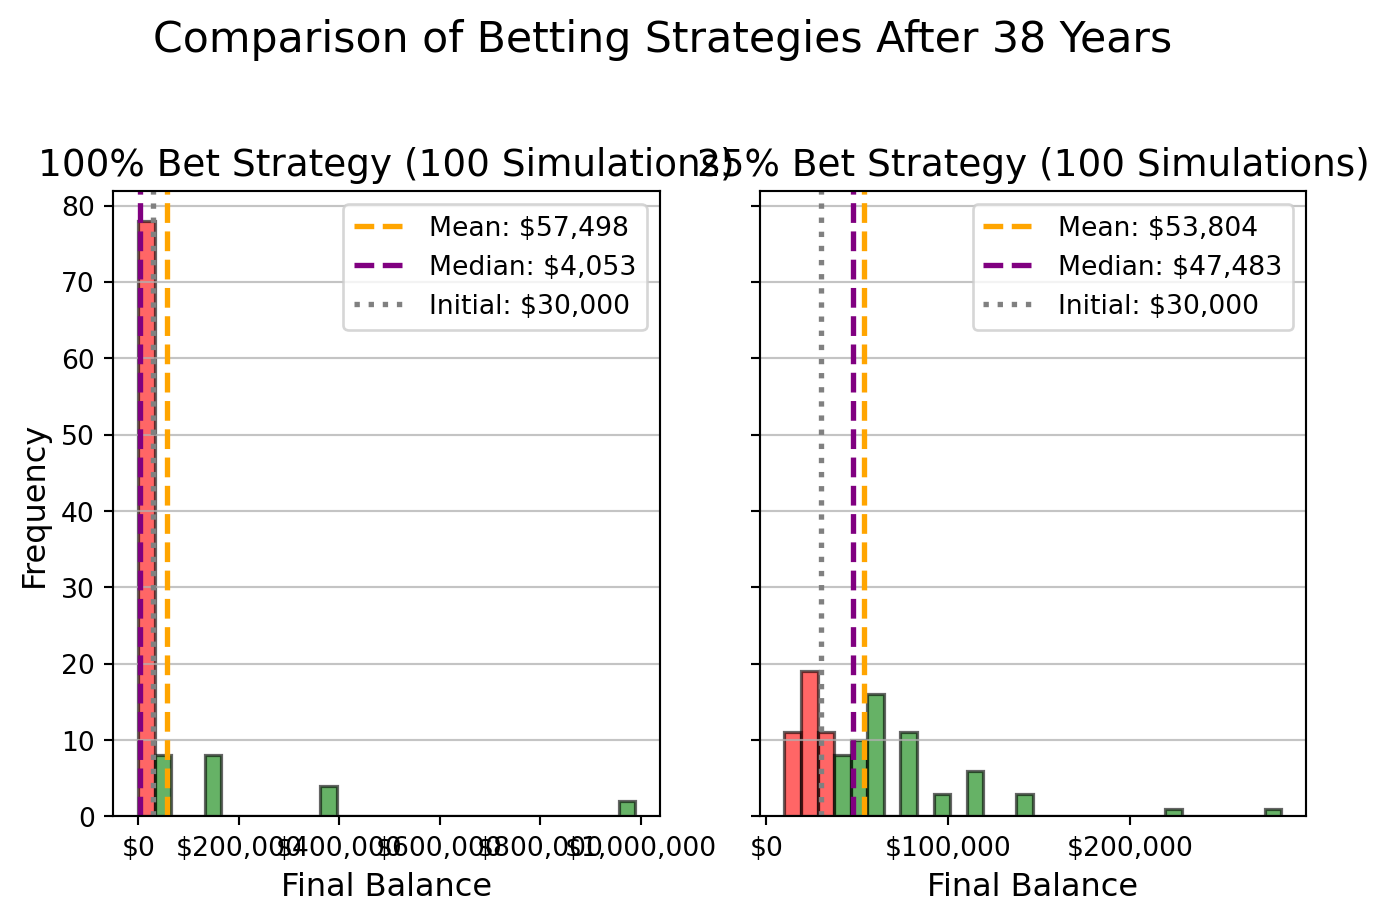
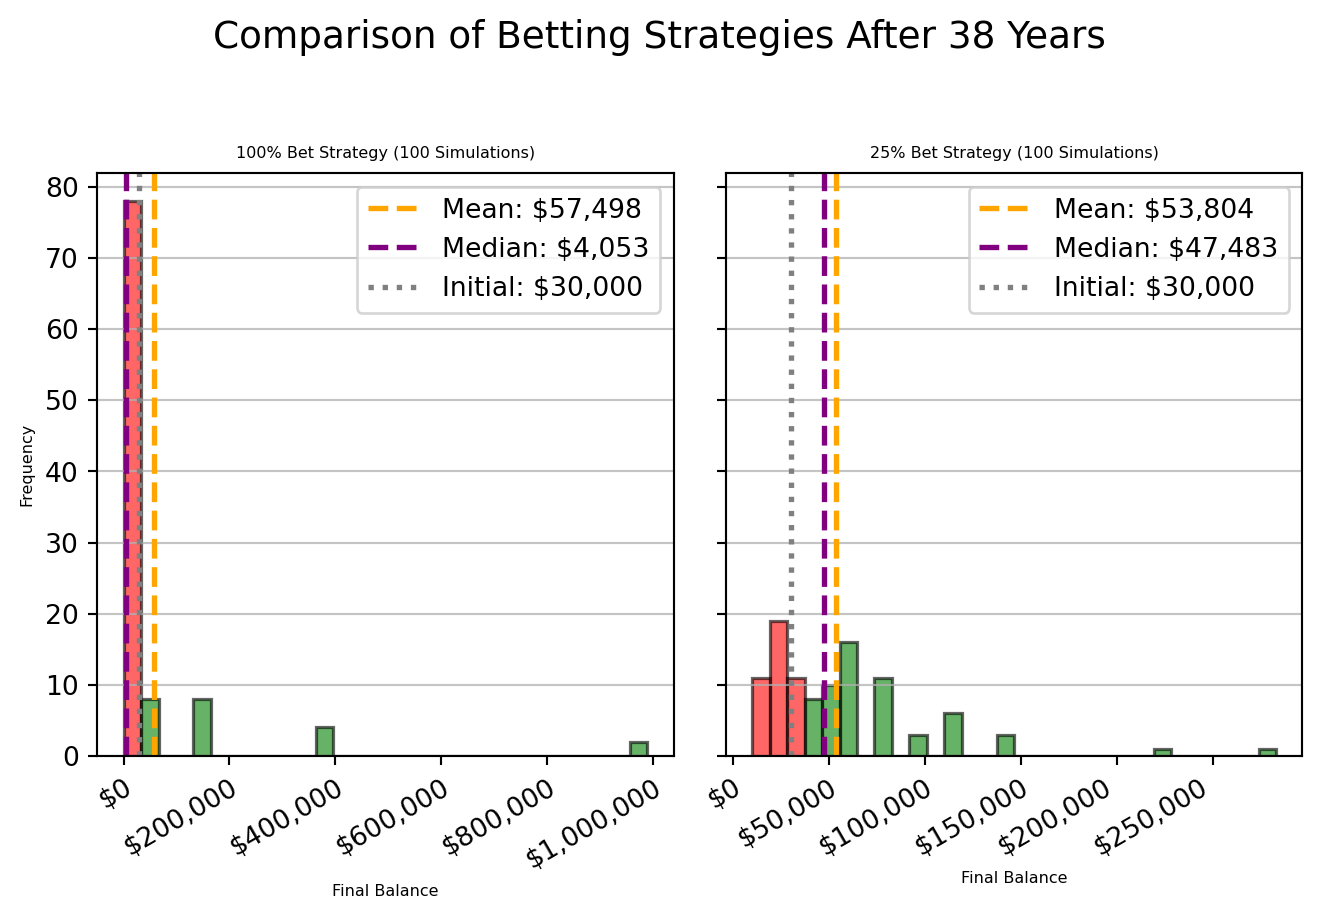
commit

diff --git a/index.html b/index.html
@@ -112,7 +112,7 @@ Heads: W1 = 1.5 × $30,000 = $45,000.00
 Final winnings after 1 flip: $45,000.00
 Net change: $15,000.00 (+50.00%)</code></pre>
 </div>
-<div id="q1-expected-value-py" class="cell-output cell-output-display" data-execution_count="10">
+<div id="q1-expected-value-py" class="cell-output cell-output-display" data-execution_count="3">
 <div>
 
 
@@ -187,7 +187,7 @@ P(final &gt; $30,000):        0.220 (22.0%)
 <div class="cell-output cell-output-display">
 <div id="q3-dist-100-py" class="quarto-figure quarto-figure-center anchored">
 <figure class="figure">
-<p><img src="index_files/figure-html/q3-dist-100-py-output-2.png" width="670" height="470" class="figure-img"></p>
+<p><img src="index_files/figure-html/q3-dist-100-py-output-2.png" width="687" height="470" class="figure-img"></p>
 <figcaption>Distribution of final balances across 100 simulations</figcaption>
 </figure>
 </div>
@@ -243,7 +243,7 @@ P(final &gt; $30,000):        0.700 (70.0%)
 <div class="cell-output cell-output-display">
 <div id="q5-modified-25pct-py" class="quarto-figure quarto-figure-center anchored">
 <figure class="figure">
-<p><img src="index_files/figure-html/q5-modified-25pct-py-output-2.png" width="694" height="461" class="figure-img"></p>
+<p><img src="index_files/figure-html/q5-modified-25pct-py-output-2.png" width="661" height="459" class="figure-img"></p>
 <figcaption>Modified strategy distribution (bet 25% each round)</figcaption>
 </figure>
 </div>
@@ -277,7 +277,7 @@ P(final &gt; $30,000):        0.700 (70.0%)
 <p>In our simulation:</p>
 <p>The probability of winning (p) is 0.5 (coin flip). The probability of losing (q) is also 0.5. When we win, we gain 50% of the bet, so for every $1 bet, we get $0.50 profit, meaning b = 0.5. When we lose, we lose 40% of the bet, which is a loss of $0.40 every $1 bet. Let’s apply the Kelly Criterion to our scenario: f = ( (0.5 * 0.5) - 0.5 ) / 0.5 f = (0.25 - 0.5) / 0.5 f = -0.25 / 0.5 f = -0.5</p>
 <p>The negative result suggests that, given these exact parameters (1.5x on win, 0.6x on loss, 50/50 probability), a full Kelly strategy would actually advise not betting, or even shorting (which isn’t really applicable here). This is because the expected value of the bet (p * gain) - (q * loss) is (0.5 * 0.5) - (0.5 * 0.4) = 0.25 - 0.2 = 0.05, which is positive, but the structure of the bet (specifically the return ‘b’) makes the standard Kelly formula yield a negative result when the loss is a higher percentage of the bet than the gain.</p>
-<p>The key takeaway from Kelly is that you should bet a fraction of your wealth, not all of it, to avoid ruin and maximize long-term growth. Betting 50% of your wealth (bet_percentage = 0.5) in our modified strategy is a form of fractional Kelly or a prudent fixed-fraction betting strategy, which aims to balance risk and reward. It’s a pragmatic approach to manage risk, even if the strict Kelly formula might suggest a different optimal fraction or even no bet at all under certain conditions. The significant improvement in the median and probability of success in our 50% strategy compared to the 100% strategy highlights the benefit of not risking your entire capital on each independent event over a long series of trials. This is why we see a significant improvement in the median and probability of success in our 50% strategy compared to the 100% strategy.</p>
+<p>The key takeaway from Kelly is that you should bet a fraction of your wealth, not all of it, to avoid ruin and maximize long-term growth. Betting 25% of your wealth (bet_percentage = 0.25) in our modified strategy is a form of fractional Kelly or a prudent fixed-fraction betting strategy, which aims to balance risk and reward. It’s a pragmatic approach to manage risk, even if the strict Kelly formula might suggest a different optimal fraction or even no bet at all under certain conditions. The significant improvement in the median and probability of success in our 25% strategy compared to the 100% strategy highlights the benefit of not risking your entire capital on each independent event over a long series of trials. This is why we see a significant improvement in the median and probability of success in our 25% strategy compared to the 100% strategy.</p>
 </section>
 </section>
 
